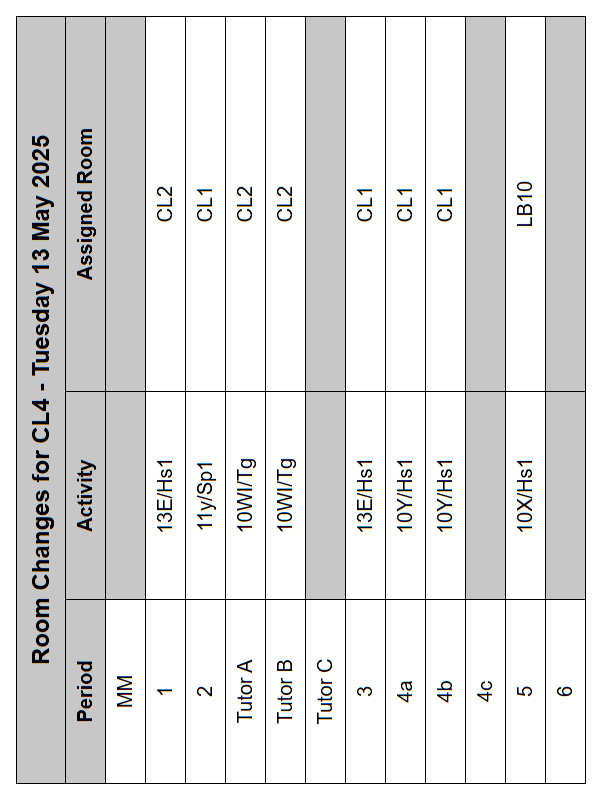
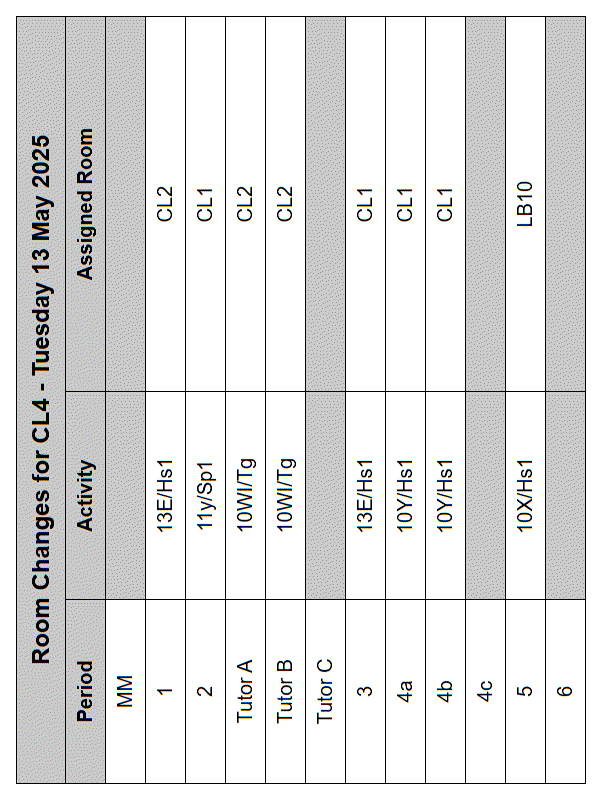
images

Changed region(s): [[0.03, 0.1562, 0.18, 0.9688], [0.39, 0.5938, 0.42, 0.625]]

diff --git a/main.py b/main.py
@@ -7,7 +7,7 @@ import webbrowser
 import win32com.client as client
 import os
 from playwright.sync_api import sync_playwright
-from PIL import Image
+from PIL import Image, ImageOps
 
 # PARAMETERS
 do_email = False
@@ -216,9 +216,26 @@ def room_or_supply(data: pd.DataFrame, supply=False):
                 page.set_content(get_template().replace("{table}", table_html), wait_until='networkidle')
                 page.screenshot(path=Path.joinpath(Path.cwd(), outputs_folder, f"{unique}.png"), clip={"x": 0, "y": 0, "width": 800, "height": 600})
                 browser.close()
-            with Image.open(Path.joinpath(Path.cwd(), outputs_folder, f"{unique}.png")) as img:
-                rotated = img.rotate(90, expand=True)
-                rotated.save(Path.joinpath(Path.cwd(), outputs_folder, f"{unique}.png"))
+
+            path = Path.cwd() / outputs_folder / f"{unique}.png"
+
+            with Image.open(path) as img:
+                # Rotate the image 90 degrees clockwise
+                img = img.rotate(-90, expand=True)
+
+                # Convert to grayscale (equivalent to setting type = 'grayscale' and colorspace = 'gray')
+                img = img.convert("L")  # "L" = 8-bit pixels, black and white
+
+                # Quantize to 256 grayscale colors (Pillow will do this automatically after conversion to 'L')
+                img = img.quantize(colors=256, method=Image.FASTOCTREE)
+
+                # Remove alpha channel by pasting onto white background if it exists
+                if img.mode in ("RGBA", "LA") or (img.mode == "P" and 'transparency' in img.info):
+                    background = Image.new("L", img.size, 255)  # White background in grayscale
+                    img = Image.composite(img.convert("L"), background, img.convert("L"))
+
+                # Save the modified image (overwrites original)
+                img.save(path)
     return tables
 
 def get_time(row):
